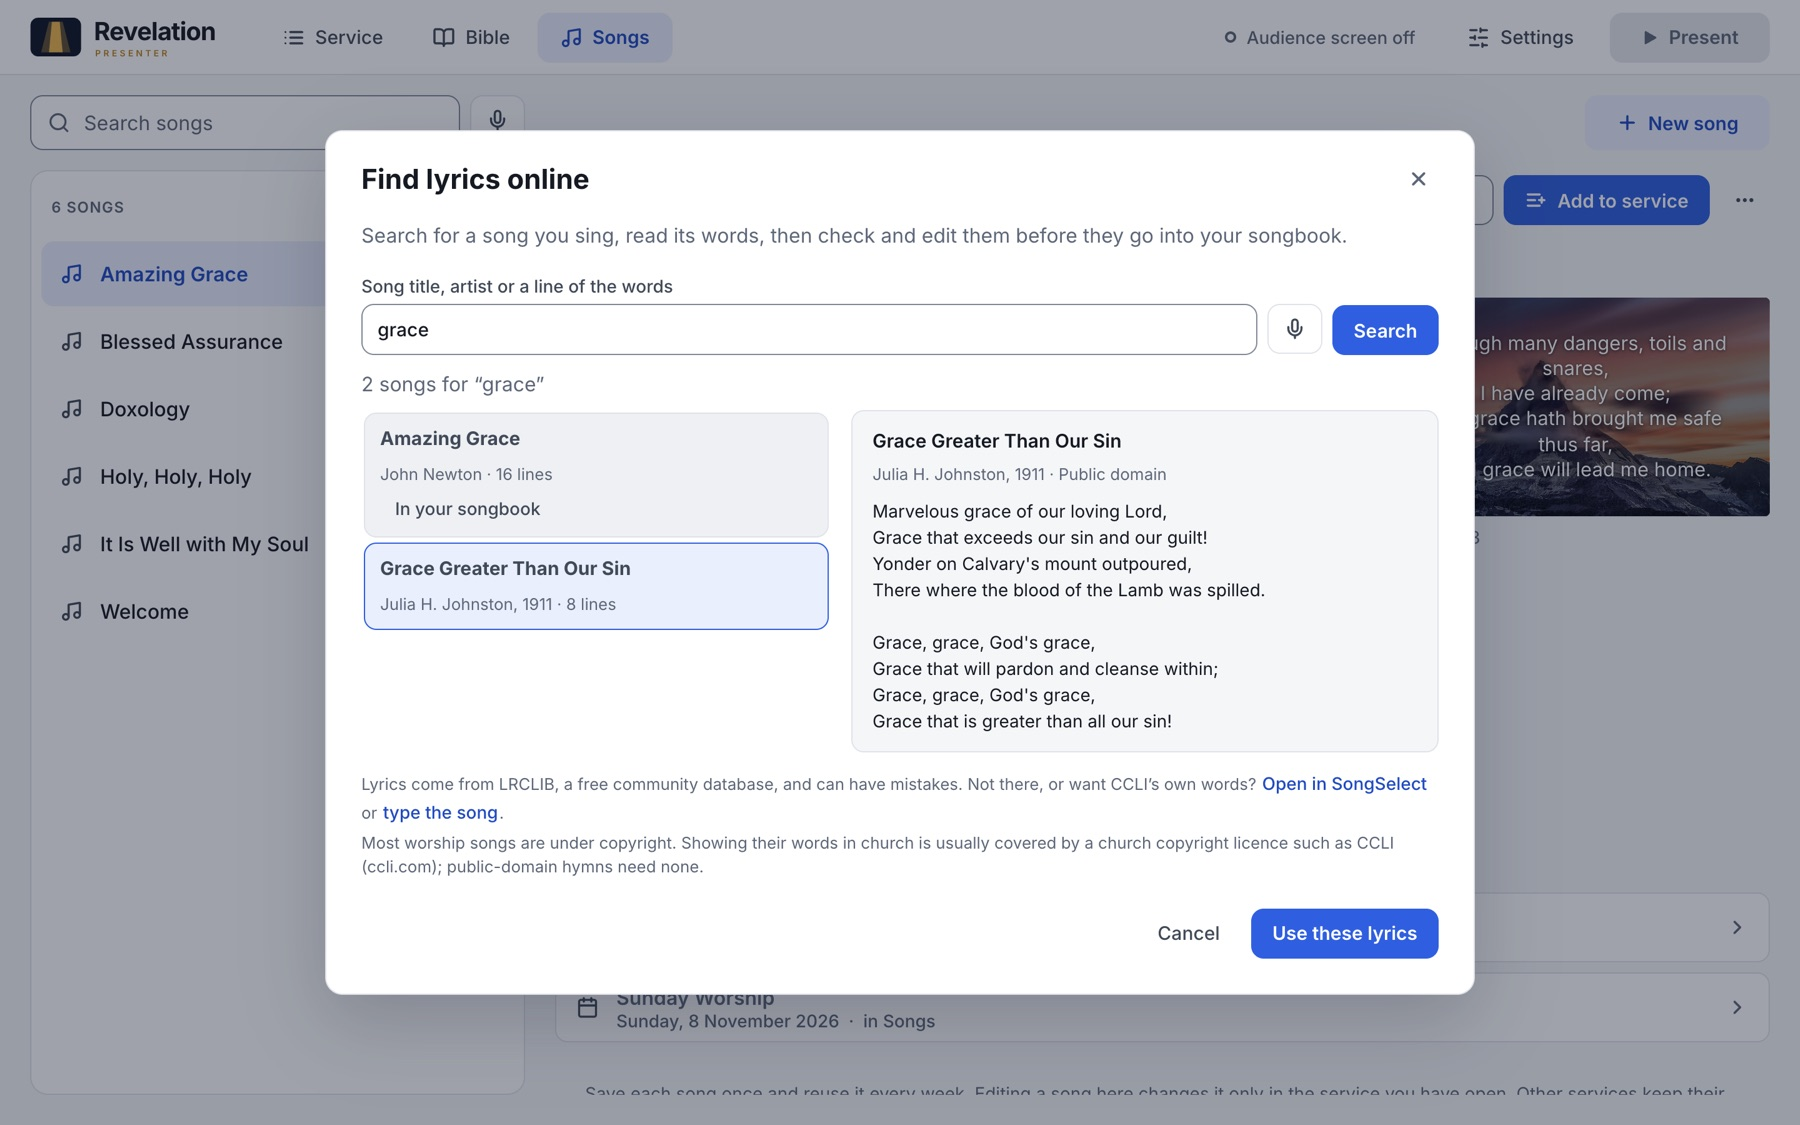
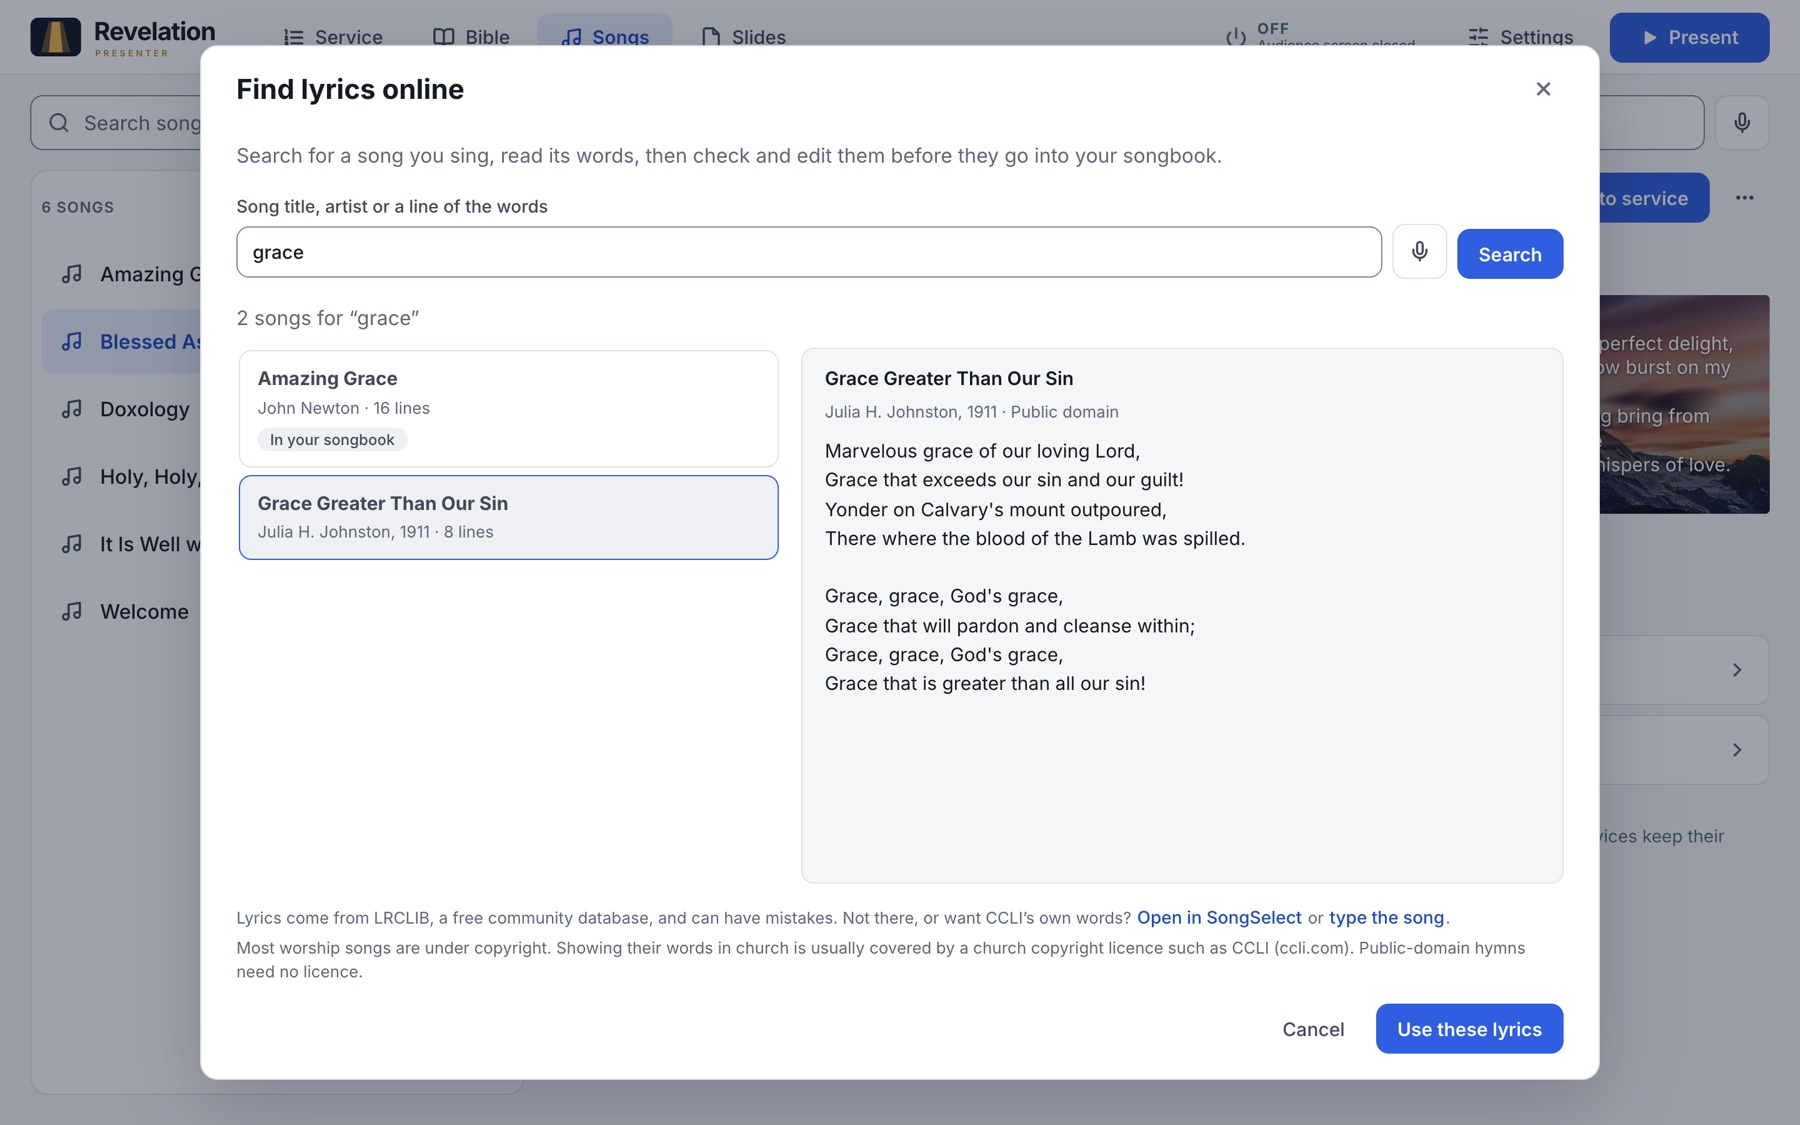
docs: refresh screenshots for Revelation 0.3.2

Changed region(s): [[0.0311, 0.0, 0.9956, 0.9644], [0.0311, 0.1556, 0.0622, 0.1867]]

diff --git a/README.md b/README.md
@@ -24,8 +24,8 @@
 
 - **Preview first, then show it.** Every slide waits in Preview until you press
   Enter. The audience only ever sees what you chose to send.
-- **Two Bible versions side by side.** King James and Ang Dating Biblia install in
-  one click, and any GetBible or Zefania file adds another.
+- **Two Bible versions side by side.** King James and Ang Dating Biblia are
+  included. Add another version from a GetBible or Zefania file.
 - **Find a verse as it's announced.** Type `gen 1 4` or say "John 3:16" and it's
   ready in Preview, without touching the prepared service.
 - **A songbook that remembers.** Save a song once and reuse it every week; each
@@ -37,8 +37,8 @@
   save the song to your songbook.
 - **Free backgrounds and fonts.** A searchable library of CC0 pictures with
   credits, and open-licence fonts, kept on the Mac for offline use.
-- **Made for the keyboard and the clicker.** Space for next, B for a black screen,
-  `/` to find anything.
+- **Made for the keyboard and the clicker.** Right Arrow or Space for the next slide,
+  B to blank the audience screen, and `/` to find a passage or song.
 - **Everything stays on your Mac.** No account, no subscription. One backup file
   moves the whole library to another Mac.
 - **Updates itself.** When a new version is out, the app offers it, and installs it
@@ -52,7 +52,7 @@ Name the groups yourself (opening songs, Scripture reading, announcements, and s
 fill them from the library, and drag them into order. Clicking a slide only
 previews it.
 
-![The Service screen with groups of songs and readings, and the Welcome slides previewed over a mountain background](docs/screenshots/service.jpg)
+![The Service screen with groups of songs and readings, and Amazing Grace previewed over a mountain background](docs/screenshots/service.jpg)
 
 ### Read in two languages at once
 
@@ -88,7 +88,7 @@ are marked.
 Browse free CC0 backgrounds from Wikimedia Commons, download the ones you like,
 and use them for every song or for one song.
 
-![The template library with mountain, canyon, night sky and Bible backgrounds](docs/screenshots/templates.jpg)
+![The template library with ocean, mountain and Bible backgrounds](docs/screenshots/templates.jpg)
 
 <sub>Screenshots use public-domain hymns and Bible text (KJV, Ang Dating Biblia 1905)
 and CC0 backgrounds.</sub>
